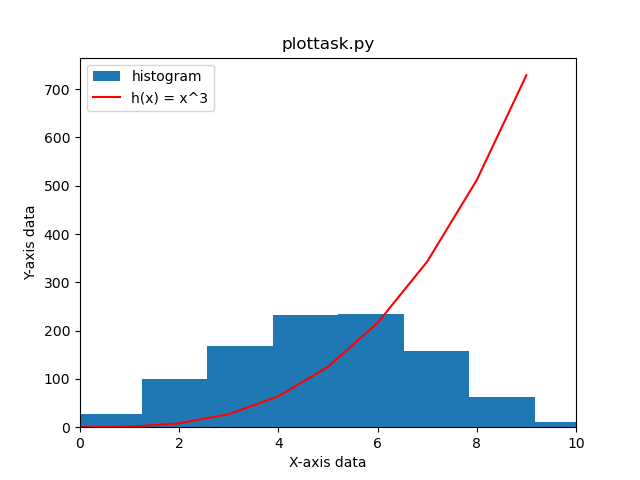
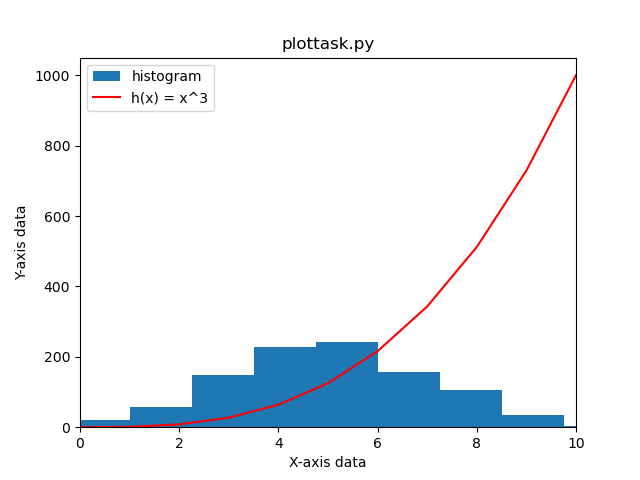
update

diff --git a/plottask.py b/plottask.py
@@ -12,7 +12,7 @@ numbers = np.random.normal(loc=5, scale=2, size=1000)    # loc is the mean, scal
 
 plt.hist(numbers, label="histogram")    # this creates a histogram plot of a normal distribution of 1000 values with mean of 5 and standard deviation of 2
 
-x = np.array(range(0,10))   # this sets the range of x from 0 to 9
+x = np.array(range(0,11))   # this sets the range of x from 0 to 9
 y = x**3                    # to set y = x cubed
 
 plt.plot(x, y, color='r', label="h(x) = x^3") # this plots the function y = x cubed
